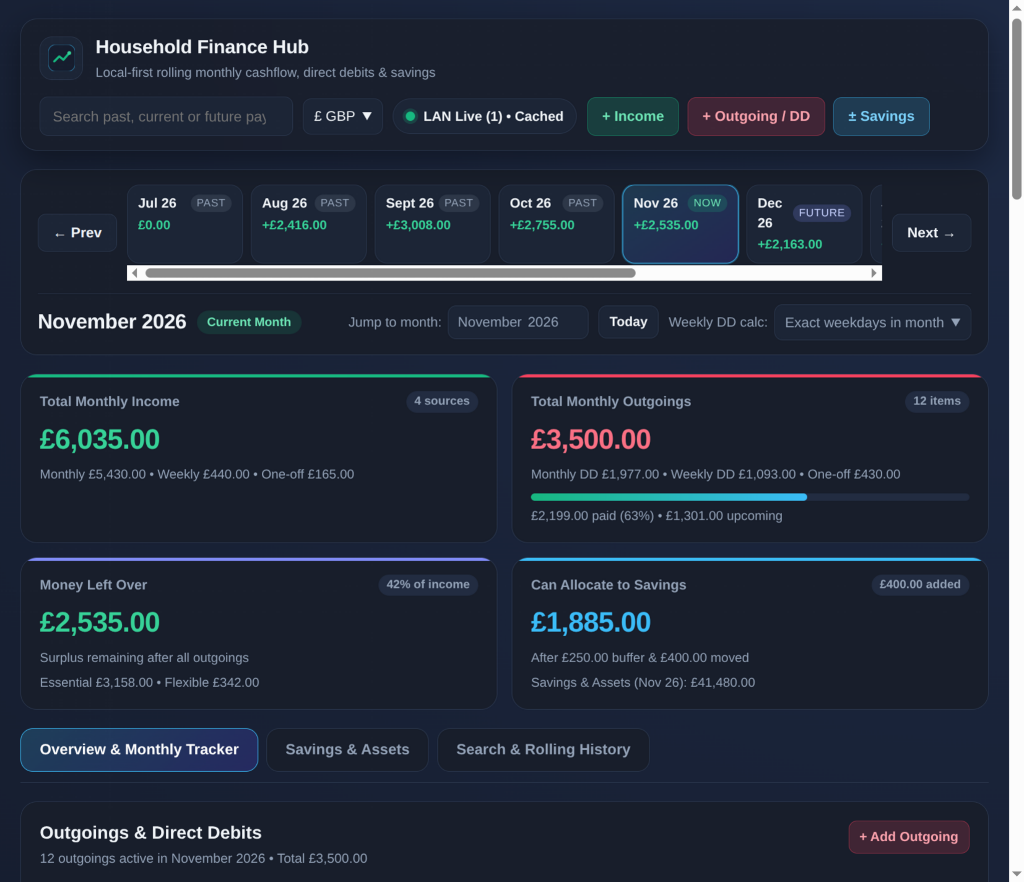
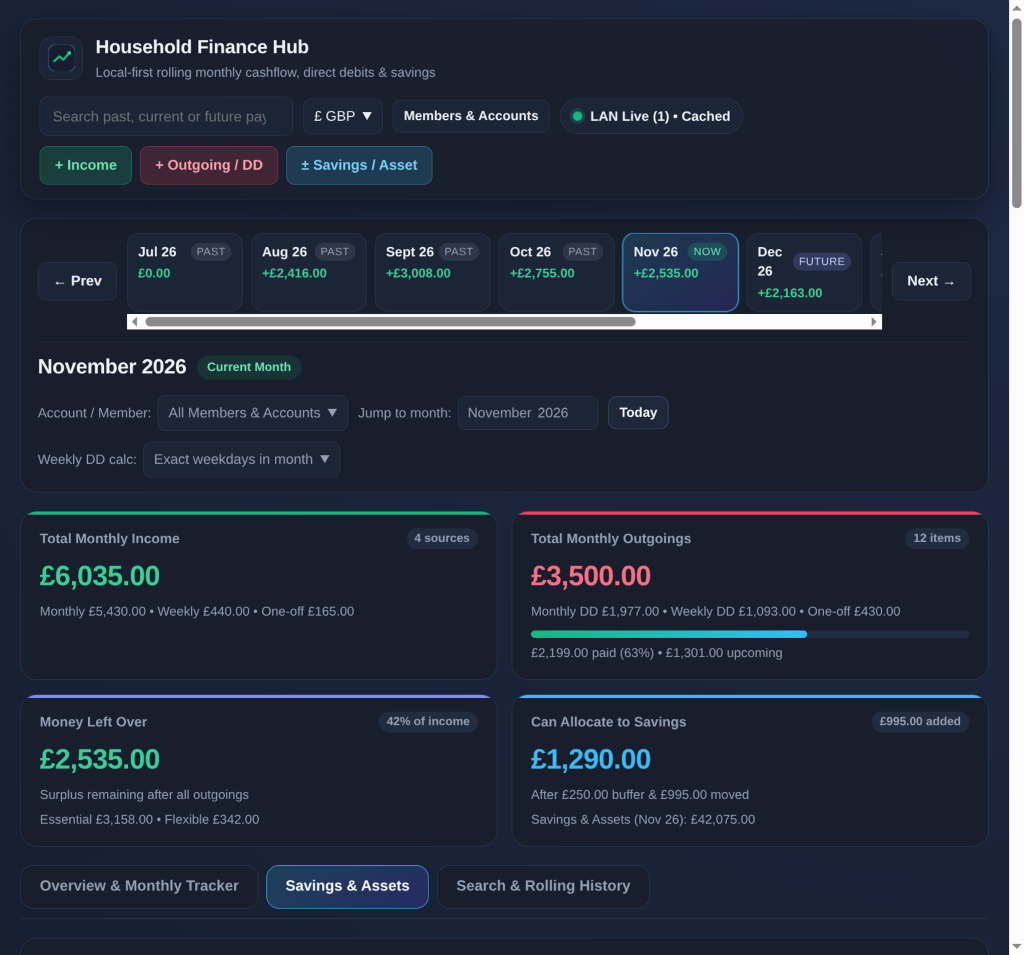
Docs: Update README feature list and screenshots for account coverage, transfers, and member accounts

diff --git a/README.md b/README.md
@@ -9,7 +9,9 @@ A **local-first, self-hosted rolling monthly income, outgoings, direct debits, a
 - **100% Local Persistence:** Stores state and revision snapshots in SQLite (`data/household-budget.sqlite`) with automatic mirrored JSON backups (`data/household-budget.json`).
 - **Offline-Resilient Client Caching:** Caches state locally in `localStorage`, `IndexedDB`, and a Service Worker (`sw.js`) so the interface loads instantaneously and queues edits when temporarily disconnected.
 - **Multi-Device LAN & Remote Sync:** Real-time Server-Sent Events (`GET /api/events`) keep every connected browser tab and mobile device synchronized automatically.
-- **Rolling Monthly Engine:** Seamlessly browse past saved months, the current month, and future scheduled months side-by-side—with weekly direct debits, monthly direct debits, one-off payments, and full savings/asset tracking.
+- **Joint & Personal Account Bill Coverage & Allocations:** Allocate money from personal accounts (`My Account`, `Partner Account`, etc.) into the `Joint Account` via monthly, weekly, or one-off transfers, and see exact bill coverage, shortfalls, and surpluses for both personal and joint accounts.
+- **Site-Wide Household Member / Payer Account Labeling & Renaming:** Set up, color-code, and rename personal and joint accounts at any time, label every income, bill, savings pot, and asset with who pays or owns it, and filter any view by account.
+- **Rolling Monthly Engine:** Seamlessly browse past saved months, the current month, and future scheduled months side-by-side—with weekly direct debits, monthly direct debits, one-off payments, and recurring/one-off savings & asset tracking.
 - **Zero-Dependency Docker Image:** Runs cleanly on `node:24-alpine` exposed on port `5025` with persistent `/app/data` volume storage.
 
 ---
@@ -17,31 +19,51 @@ A **local-first, self-hosted rolling monthly income, outgoings, direct debits, a
 ## Screenshots
 
 ### 1. Monthly Overview & Rolling Navigator
-Track total monthly income, total outgoings (with paid vs. upcoming progress), money left over, and savings allocation at a glance across a 9-month rolling pill strip.
+Track total monthly income, total outgoings (with paid vs. upcoming progress), money left over, and savings allocation across a 9-month rolling pill strip, with quick member/account filtering and `Members & Accounts` management in the header.
 
 ![Overview Dashboard](docs/screenshots/01-overview-dashboard.png)
 
-### 2. Outgoings, Weekly/Monthly Direct Debits & Incomes
-Filter by Monthly Direct Debits, Weekly Direct Debits (showing exact weekday occurrence counts like `4×` or `5×` and dates in the month), One-Off Payments, Paid, or Upcoming—with one-click status toggles, per-month overrides, and clean removal controls.
+### 2. Joint & Personal Account Bill Coverage & Allocations
+See how much money is needed in your Joint Account and each Personal Account to cover bills and savings, use the **Joint Account Funding Planner** (**Auto-Cover Shortfall (By Income %)** or **50/50 Equal Split**), and manage recurring or one-off Personal → Joint account transfers.
+
+![Joint and Personal Account Bill Coverage](docs/screenshots/07-joint-personal-bill-coverage.png)
+
+### 3. Outgoings, Weekly/Monthly Direct Debits & Incomes
+Filter by Monthly Direct Debits, Weekly Direct Debits (showing exact weekday occurrence counts like `4×` or `5×` and dates in the month), One-Off Payments, Paid, or Upcoming—with payer badges, one-click status toggles, per-month overrides, and non-destructive stopping.
 
 ![Outgoings and Direct Debits](docs/screenshots/02-outgoings-and-direct-debits.png)
 
-### 3. Add / Edit Incomes, Direct Debits & One-Off Payments
-Switch effortlessly between Monthly DD, Weekly DD, and One-Off schedules, choose Essential vs. Flexible priority, and edit either an entire recurring series or just the currently selected month.
+### 4. Add / Edit Incomes, Direct Debits & One-Off Payments
+Switch effortlessly between Monthly DD, Weekly DD, and One-Off schedules, choose which member/payer account pays or receives it, set Essential vs. Flexible priority, and edit either an entire recurring series or just the currently selected month.
 
 ![Add Outgoing Modal](docs/screenshots/03-add-outgoing-modal.png)
 
-### 4. Savings Accounts, Assets & Change History
-Manage savings pots, ISAs, investments, cash pots, and physical assets with goal progress bars, `+ Add Money`, `- Remove`, and `Adjust (+/-)` movements, plus a full filterable change history ledger.
+### 5. By Member / Payer Account Breakdown & Quick Rename/Filter
+Inspect how much each member/account has available, needed for bills, left over, and allocated to savings side-by-side, with one-click `Rename` and `Filter` (`Showing ✓`) buttons right on each account card.
+
+![By Member Payer Account Breakdown](docs/screenshots/09-by-member-payer-accounts.png)
+
+### 6. Household Members & Payer Accounts Modal
+Customize joint or personal account names, account roles (`Joint` vs. `Personal`), and badge colors, save edits inline or across all rows at once via **Save Account Names & Close**, or add new payer accounts.
+
+![Members and Payer Accounts Modal](docs/screenshots/10-members-and-accounts-modal.png)
+
+### 7. Savings Accounts, Physical Assets & Balance Actions
+Manage savings pots, ISAs, investments, cash pots, and physical assets with goal progress bars, owner badges, and quick `+ Add Money`, `- Remove`, `Allocate`, and `Adjust` actions.
 
 ![Savings and Assets](docs/screenshots/04-savings-and-assets.png)
 
-### 5. 12-Month Rolling Projection & Global Search
-Compare 12 past, current, and upcoming months side-by-side in an interactive bar chart and table, and search across all past, current, and future payments, incomes, and savings changes.
+### 8. Scheduled Monthly, Weekly & One-Off Savings & Asset Payments
+Schedule recurring monthly standing orders, weekly transfer rules, and one-off additions/removals for both cash savings accounts and physical assets, complete with payer account labels, filters, and a chronological change history ledger.
+
+![Scheduled Savings and Asset Payments](docs/screenshots/08-scheduled-savings-and-asset-payments.png)
+
+### 9. 12-Month Rolling Projection & Global Search
+Compare 12 past, current, and upcoming months side-by-side in an interactive bar chart and table, and search across all past, current, and future payments, incomes, account transfers, and savings changes with **Paid By / Member** filtering.
 
 ![Rolling History and Global Search](docs/screenshots/05-rolling-history-and-search.png)
 
-### 6. Local Network Access, Offline Cache & Backups
+### 10. Local Network Access, Offline Cache & Backups
 Copy direct LAN/remote URLs for phones and tablets, inspect SQLite/JSON/browser cache sync status, export or restore JSON backups, and reload sample data or start blank.
 
 ![Local Network Access and Cache Modal](docs/screenshots/06-lan-access-and-cache.png)
@@ -53,9 +75,9 @@ Copy direct LAN/remote URLs for phones and tablets, inspect SQLite/JSON/browser 
 ### 1. Rolling Monthly Cashflow Tracking
 - **Interactive Rolling Navigator:** Step backward and forward with `< Prev` / `Next >`, click any month in the 9-month rolling pill strip (4 past months, active month, 4 future months with net surplus previews), jump to any historical or future month via the month picker, or snap back with `Today`.
 - **Headline Executive KPI Cards:**
-  - **Total Monthly Income** (broken down by Monthly, Weekly, and One-Off sources)
+  - **Total Monthly Income** (shows Direct Income + Allocations In − Transfers Out when filtered to a specific account, or full Monthly / Weekly / One-Off breakdown)
   - **Total Monthly Outgoings** (Monthly DD, Weekly DD, One-Off totals, plus a Paid vs. Upcoming progress bar)
-  - **Money Left Over** (net surplus/deficit, `% of income` remaining, and Essential vs. Flexible spending split)
+  - **Money Left Over** (net surplus/deficit, `% of available` remaining, and Essential vs. Flexible spending split)
   - **Available for Savings & Net Worth** (remaining unallocated surplus after your safety buffer and logged monthly transfers, plus total savings & assets through the selected month)
 - **Multi-Currency Display:** Switch cleanly between `£ GBP`, `$ USD`, and `€ EUR`.
 
@@ -68,14 +90,22 @@ Copy direct LAN/remote URLs for phones and tablets, inspect SQLite/JSON/browser 
     - *Monthly average (`×52÷12`)*
   - **One-Off Payments & Incomes:** Scheduled for any past, current, or future month with optional exact date.
 - **Per-Month Overrides & Non-Destructive Stopping:**
-  - Edit a recurring direct debit across all active months **or** override the amount/notes for a single month only.
+  - Edit a recurring direct debit across all active months **or** override the amount/member/notes for a single month only.
   - Remove a recurring direct debit by choosing **"Stop from this month onwards (keep past history)"** or **"Delete completely from all months"**.
 - **One-Click Status Cycling:** Toggle any item between `Paid / Received`, `Upcoming`, and `Skipped` for the viewed month.
 
-### 3. Household Members, Payer Accounts & Interactive Allocator
-- **Members & Payer Accounts (`Members & Accounts` Modal):** Set up joint and personal accounts (defaulting to `Joint Account`, `My Account`, and `Partner Account`, with custom names, roles, and label colors).
-- **Site-Wide Payer & Owner Labeling:** Label every income, outgoing, direct debit, savings/asset account, and savings payment with which member pays or owns it—displayed as colored badges across Overview, Savings & Assets, and Global Search.
-- **By Member / Payer Account Breakdown & Global Filter:** View each member's monthly income, outgoings, leftover cash, and savings/asset allocations side-by-side, or filter the dashboard and search results to a specific member's account.
+### 3. Joint & Personal Account Bill Coverage, Member Accounts & Transfers
+- **Personal-to-Joint Account Allocations (`+ Allocate Personal → Joint`):**
+  - Transfer money from personal accounts (`My Account`, `Partner Account`, etc.) to the `Joint Account` (or any target account) on a **Monthly**, **Weekly**, or **One-Off** schedule with status tracking (`Upcoming`, `Transferred`, `Skipped`), per-month overrides, and non-destructive stopping.
+- **Per-Account Bill Coverage Cards:**
+  - Shows **Needed for Bills** (plus savings commitments), **Available in Account** (`Direct Income + Allocations In − Transfers Out`), remaining surplus/deficit after bills, bill-coverage progress bar, and instant status pills (**Bills Covered** vs. **Needs £X for bills**).
+  - Quick per-account actions right on each card: **`Allocate → Joint`**, **`+ Pay Bill`**, and **`Filter`**.
+- **Joint Account Funding Planner:**
+  - Automatically calculates any Joint Account shortfall for the selected month and lets you fill personal contribution amounts with one click using **Auto-Cover Shortfall (By Income %)** or **50/50 Equal Split**, then apply top-up allocations immediately.
+- **Household Members & Payer Accounts (`Members & Accounts` / `Manage / Rename`):**
+  - Add, color-code, and configure `Joint` or `Personal` payer accounts across the whole app.
+  - Rename accounts easily via row `Save`, `Enter`, auto-save on change, inline **`Rename`** buttons on the **By Member / Payer Account** card, or **`Save Account Names & Close`**, persisting cleanly across SQLite, JSON backup, and offline browser cache.
+- **By Member / Payer Account Breakdown & Global Filter:** Compare each account's available funds, bills needed, leftover cash, and savings allocations side-by-side, and click **`Filter`** (`Showing ✓`) or use the top **Account / Member** selector to focus all dashboard metrics and lists on one account.
 - **Outgoings Visual Breakdown:** Visual stacked bar comparing Monthly DDs, Weekly DDs, and One-Offs alongside category-by-category progress bars.
 - **Interactive Savings & Assets Allocator:**
   - Choose **Allocate From Member / Account** (whole household or any individual member) and calculate **Remaining Available to Allocate** after your current-account safety buffer.
